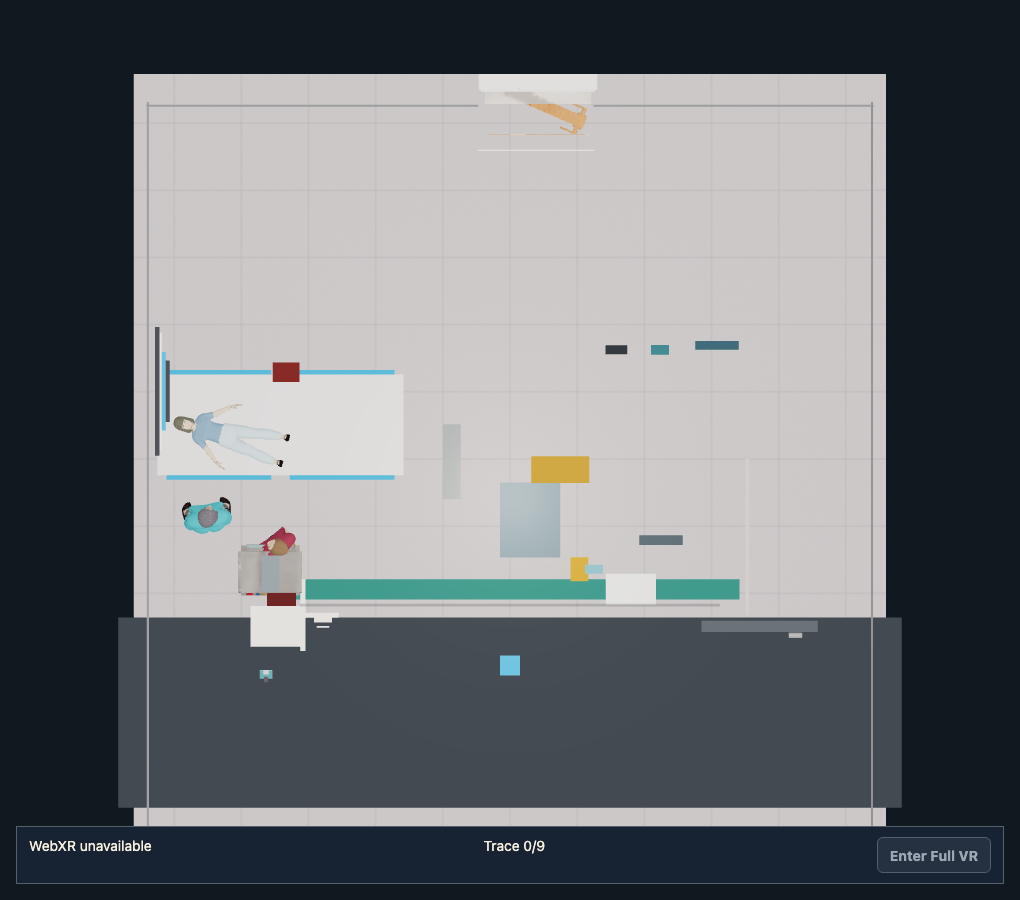
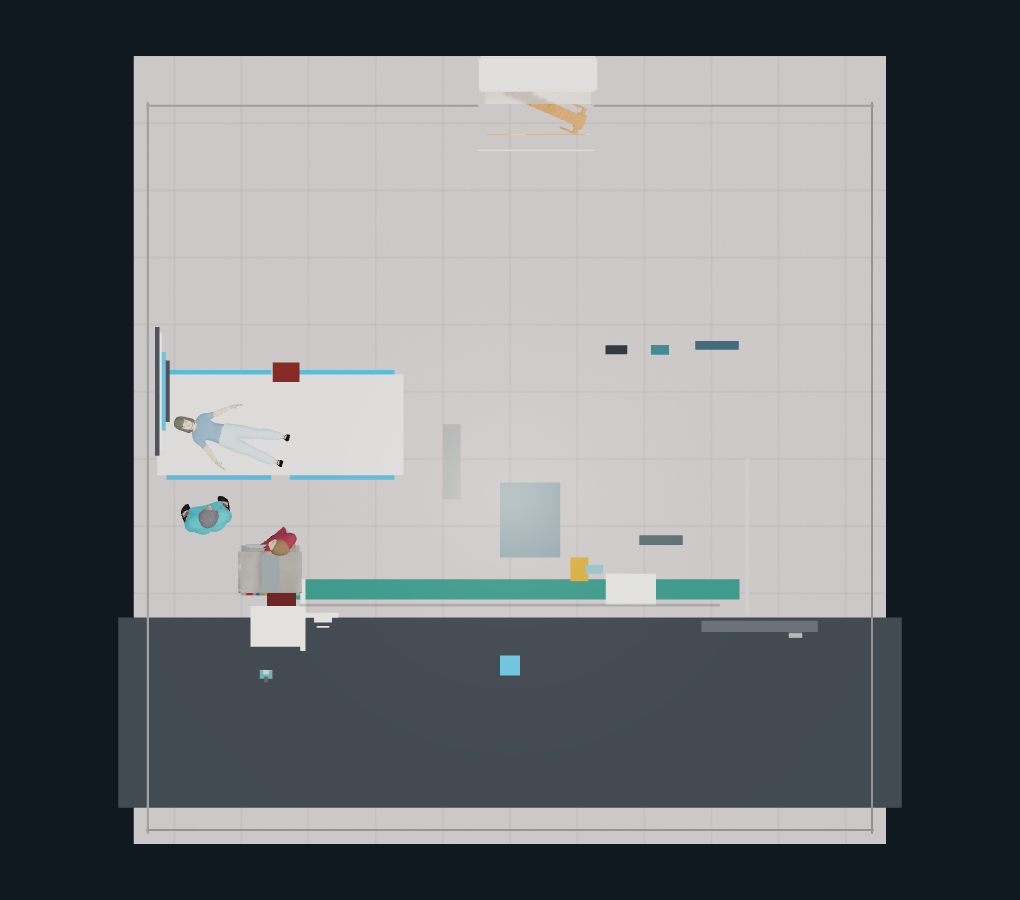
worker: in-scope file commit

diff --git a/apps/ui-xr/src/layout-view-camera.ts b/apps/ui-xr/src/layout-view-camera.ts
@@ -44,11 +44,32 @@ function coverOrthographicFrustum(ortho: OrthographicCamera, bounds: Box3, aspec
 /** Publish the capture hook that swaps the station render camera for a layout shot. */
 export function installStationLayoutView(scene: Scene, canvas: HTMLCanvasElement): void {
   window.__openClinXrDebugHoldCamera = null;
+  const hiddenCeilings: Mesh[] = [];
+  // GLB primitives inherit the ceiling name from a parent group; mesh.name alone leaves the slab.
+  const setCeilingVisible = (visible: boolean): void => {
+    if (visible) {
+      for (const mesh of hiddenCeilings) mesh.visible = true;
+      hiddenCeilings.length = 0;
+      return;
+    }
+    scene.traverse((obj) => {
+      if (!/ceiling/i.test(obj.name)) return;
+      obj.traverse((child) => {
+        if (!(child instanceof Mesh) || !child.visible) return;
+        child.visible = false;
+        hiddenCeilings.push(child);
+      });
+    });
+  };
   window.__openClinXrSetLayoutView = (mode: LayoutViewMode): void => {
     const previous = window.__openClinXrDebugHoldCamera;
     if (previous) previous.removeFromParent();
     window.__openClinXrDebugHoldCamera = null;
-    if (mode === "perspective") return;
+    if (mode === "perspective") {
+      setCeilingVisible(true);
+      return;
+    }
+    setCeilingVisible(false);
     const roomRoot = scene.getObjectByName("openclinxr.station-environment.infinigen-room");
     if (!roomRoot) throw new Error("layout view: room interior is missing");
     const interior = new Box3();
@@ -102,32 +123,12 @@ export function installStationLayoutView(scene: Scene, canvas: HTMLCanvasElement
         Math.sin(elevation),
         -Math.cos(elevation) * Math.cos(azimuth),
       ).normalize();
-      const inset = interior.clone();
-      inset.min.addScalar(0.4);
-      inset.max.addScalar(-0.4);
-      if (inset.min.x > inset.max.x || inset.min.y > inset.max.y || inset.min.z > inset.max.z) inset.copy(interior);
-      const start = centre.clone();
-      start.x = Math.min(inset.max.x, Math.max(inset.min.x, start.x));
-      start.y = Math.min(inset.max.y, Math.max(inset.min.y, start.y));
-      start.z = Math.min(inset.max.z, Math.max(inset.min.z, start.z));
-      let exit = Number.POSITIVE_INFINITY;
-      const origin = [start.x, start.y, start.z];
-      const step = [direction.x, direction.y, direction.z];
-      const low = [inset.min.x, inset.min.y, inset.min.z];
-      const high = [inset.max.x, inset.max.y, inset.max.z];
-      for (let axis = 0; axis < 3; axis += 1) {
-        const component = step[axis] ?? 0;
-        if (Math.abs(component) < 1e-8) continue;
-        const t1 = ((low[axis] ?? 0) - (origin[axis] ?? 0)) / component;
-        const t2 = ((high[axis] ?? 0) - (origin[axis] ?? 0)) / component;
-        const hit = Math.max(t1, t2);
-        if (hit > 0 && hit < exit) exit = hit;
-      }
-      const distance = Number.isFinite(exit) ? Math.max(0.75, exit - 0.05) : 3;
-      hold.position.copy(start).addScaledVector(direction, distance);
+      hold.position.copy(centre).addScaledVector(direction, 4);
+      if (hold.position.y < interior.max.y + 1.2) hold.position.y = interior.max.y + 1.2;
       hold.up.set(0, 1, 0);
       hold.lookAt(centre);
       const covered = group.clone();
+      covered.union(interior);
       covered.min.addScalar(-1);
       covered.max.addScalar(1);
       coverOrthographicFrustum(hold, covered, aspect);

diff --git a/tools/openclinxr/evidence/ui-xr-environment-room-capture.ts b/tools/openclinxr/evidence/ui-xr-environment-room-capture.ts
@@ -1523,10 +1523,18 @@ export async function captureStationEnvironmentRooms(
               if ((await webglCanvas.count()) === 0) {
                 throw new Error("station canvas missing before layout screenshot");
               }
+              await page.evaluate(`(() => {
+                const strips = globalThis.document.querySelectorAll(".status-strip");
+                for (let i = 0; i < strips.length; i += 1) strips[i].style.display = "none";
+              })()`);
               const shotPath = path.join(outputDir, shot.fileName);
               await webglCanvas.screenshot({ path: shotPath });
               process.stdout.write(`room-capture: ${shot.mode} orthographic saved to ${shotPath}\n`);
             }
+            await page.evaluate(`(() => {
+              const strips = globalThis.document.querySelectorAll(".status-strip");
+              for (let i = 0; i < strips.length; i += 1) strips[i].style.display = "";
+            })()`);
             await page.evaluate(() => {
               const pageWindow = globalThis as unknown as {
                 __openClinXrSetLayoutView?: (view: "overhead" | "isometric" | "perspective") => void;
